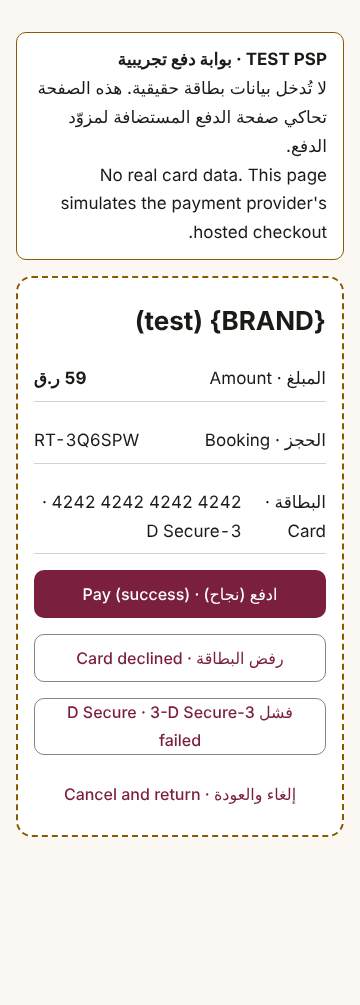
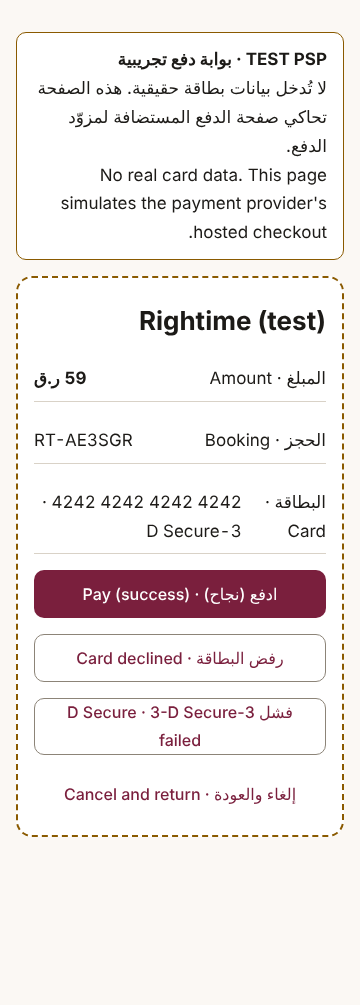
Audit remediation F6, F7, F9, F10 + brand name Rightime
F6: server keys at rest are encrypted with the SERVER_KEYS_KEK secret
(AES-256-GCM, enc:v1:); plaintext rows are encrypted in place keeping their
values; a missing or wrong KEK fails closed and never regenerates keys.
GET /api/v1/health reports key_source.

F7: the signed-in user is cached per access token for 60 s instead of being
refetched by every screen; the previous view is inert (aria-busy) while the
next one loads, so stale screens cannot take taps.

F9: Content-Security-Policy (script-src 'self', connect-src self + Supabase,
frame-ancestors 'none', ...) and Permissions-Policy on Vercel; the mock
checkout script moved out of the HTML so no inline script is needed.

F10: coordinator on duty from app_config (migration 006: +974 6005 3006, call
+ WhatsApp), GET /api/v1/support/contact, buttons on the dashboard and the
event details screen.

Brand: {BRAND} placeholder replaced with "Rightime" (UI titles and copy, admin,
mock checkout merchant, TOTP issuer).

Tests: 22/22 (new keys.test.mjs for F6, F10/health e2e, UI asserts the
coordinator buttons); runbooks A/B and pytest 42/42 pass.

Claude-Session: https://claude.ai/code/session_01FEXgDqNsHx3oP1pnWG1BkE

Changed region(s): [[0.3667, 0.3085, 0.9167, 0.3393], [0.1833, 0.4318, 0.3972, 0.4627]]

diff --git a/qatar/web/strings.js b/qatar/web/strings.js
@@ -1,7 +1,7 @@
 // UI strings (ar default, en). Arabic copy follows Qatar_Phase2_Completion_v0.3 §1 where the spec gives exact wording.
 export const STRINGS = {
   ar: {
-    brand: "{BRAND}", staging: "نسخة تجريبية", skip: "تخطَّ إلى المحتوى", langToggle: "English", back: "رجوع", next: "التالي", continue: "متابعة",
+    brand: "Rightime", staging: "نسخة تجريبية", skip: "تخطَّ إلى المحتوى", langToggle: "English", back: "رجوع", next: "التالي", continue: "متابعة",
     loading: "جارٍ التحميل…", retry: "حاول مرة أخرى", close: "إغلاق", save: "حفظ", edit: "تعديل", signOut: "تسجيل الخروج",
     // SCR-01
     ob1Title: "طاولة لستة أشخاص لا تعرفهم… بعد", ob1Body: "نجمع من 4 إلى 6 أشخاص يتحدثون لغتك وضمن ميزانيتك، على قهوة أو عشاء في مكان مختار في الدوحة.",
@@ -41,7 +41,7 @@ export const STRINGS = {
     paidTitle: "تم الدفع. نجمع طاولتك الآن.", bookingRef: "رقم الحجز", goDashboard: "الذهاب إلى لوحتي",
     // SCR-06
     hi: "أهلًا {name}", hiAnon: "أهلًا بك", nextEvent: "لقاؤك القادم", noBookings: "لا حجوزات بعد. احجز طاولتك الأولى.", bookFirst: "احجز طاولتك",
-    bookAnother: "احجز موعدًا آخر", otherBookings: "حجوزاتك الأخرى", viewDetails: "عرض التفاصيل", help: "تحتاج مساعدة؟ تواصل مع المنسق المناوب", conduct: "قواعد السلوك",
+    bookAnother: "احجز موعدًا آخر", otherBookings: "حجوزاتك الأخرى", viewDetails: "عرض التفاصيل", help: "تحتاج مساعدة؟ تواصل مع المنسق المناوب", callCoordinator: "اتصل بالمنسق", whatsappCoordinator: "واتساب المنسق", conduct: "قواعد السلوك",
     stPending: "بانتظار الدفع", stForming: "نجمع طاولتك الآن. نؤكد لك قبل {lock_at}.", stLocked: "طاولتك مكتملة ({n} أشخاص). نكشف المكان في {reveal_at}.",
     stRevealed: "المكان: {venue} · {district}", stDayOf: "هل وصلت؟", stCompleted: "كيف كانت التجربة؟", stCancelled: "أُلغي الحجز",
     stOrganizer: "ألغينا هذه الطاولة. اختر: استرداد أو موعد آخر.", chooseNow: "اختر الآن", rateIt: "قيّم اللقاء", directions: "الاتجاهات", imHere: "أنا هنا",
@@ -49,7 +49,7 @@ export const STRINGS = {
     inbox: "الإشعارات", profile: "حسابي", noNotifications: "لا إشعارات بعد.",
     // SCR-07
     detailsTitle: "تفاصيل اللقاء", essentials: "الأساسيات", yourTable: "طاولتك", confirmedCount: "{n} أشخاص مؤكدون", introTip: "نصيحة: قدّم نفسك باسمك الأول.",
-    venue: "المكان", openMaps: "فتح في الخرائط", arrival: "تعليمات الوصول", tableCode: "رمز طاولتك", mentionCode: "اذكر \"{BRAND}\" ورمز الطاولة لموظف الاستقبال.",
+    venue: "المكان", openMaps: "فتح في الخرائط", arrival: "تعليمات الوصول", tableCode: "رمز طاولتك", mentionCode: "اذكر \"Rightime\" ورمز الطاولة لموظف الاستقبال.",
     checkedIn: "تم تسجيل وصولك", support: "تواصل مع المنسق المناوب", privateReport: "إبلاغ خاص", cancelBooking: "إلغاء الحجز",
     venueHidden: "نكشف اسم المكان وعنوانه بعد تأكيد الطاولة، في {reveal_at}.", tablemates: "زملاء الطاولة اليوم", unnamed: "ضيف",
     foodBandLabel: "ميزانية الطعام", afterEvent: "بعد اللقاء", accessibility: "سهولة الوصول",
@@ -81,7 +81,7 @@ export const STRINGS = {
     errGeneric: "حدث خطأ. حاول مرة أخرى.", offline: "لا يوجد اتصال بالإنترنت.",
   },
   en: {
-    brand: "{BRAND}", staging: "Staging", skip: "Skip to content", langToggle: "العربية", back: "Back", next: "Next", continue: "Continue",
+    brand: "Rightime", staging: "Staging", skip: "Skip to content", langToggle: "العربية", back: "Back", next: "Next", continue: "Continue",
     loading: "Loading…", retry: "Try again", close: "Close", save: "Save", edit: "Edit", signOut: "Sign out",
     ob1Title: "A table of six people you don't know… yet", ob1Body: "We bring together 4 to 6 people who share your language and budget, over coffee or dinner at a chosen place in Doha.",
     ob2Title: "How it works", ob2Body: "Answer a few short questions, pick a session and pay the organising fee. We form the table and reveal the venue a day before.",
@@ -114,14 +114,14 @@ export const STRINGS = {
     slowConfirm: "This is taking longer than usual. We'll notify you when it's confirmed. You won't be charged twice.", backHome: "Back to home",
     paidTitle: "Payment confirmed. We're forming your table now.", bookingRef: "Booking ref", goDashboard: "Go to my dashboard",
     hi: "Hi {name}", hiAnon: "Welcome", nextEvent: "Your next event", noBookings: "No bookings yet. Book your first table.", bookFirst: "Book a table",
-    bookAnother: "Book another session", otherBookings: "Your other bookings", viewDetails: "View details", help: "Need help? Contact the coordinator on duty", conduct: "Code of conduct",
+    bookAnother: "Book another session", otherBookings: "Your other bookings", viewDetails: "View details", help: "Need help? Contact the coordinator on duty", callCoordinator: "Call the coordinator", whatsappCoordinator: "WhatsApp the coordinator", conduct: "Code of conduct",
     stPending: "Awaiting payment", stForming: "We're forming your table. We'll confirm by {lock_at}.", stLocked: "Your table is complete ({n} people). We'll reveal the venue at {reveal_at}.",
     stRevealed: "Venue: {venue} · {district}", stDayOf: "Have you arrived?", stCompleted: "How was it?", stCancelled: "Booking cancelled",
     stOrganizer: "We cancelled this table. Choose: refund or another session.", chooseNow: "Choose now", rateIt: "Rate the event", directions: "Directions", imHere: "I'm here",
     step1: "Paid", step2: "Forming the table", step3: "Table confirmed", step4: "Venue revealed", step5: "Event day", inDays: "in {d} d {h} h", inHours: "in {h} h {m} min",
     inbox: "Notifications", profile: "Account", noNotifications: "No notifications yet.",
     detailsTitle: "Event details", essentials: "Essentials", yourTable: "Your table", confirmedCount: "{n} people confirmed", introTip: "Tip: introduce yourself with your first name.",
-    venue: "Venue", openMaps: "Open in maps", arrival: "Arrival instructions", tableCode: "Your table code", mentionCode: "Mention \"{BRAND}\" and the table code at reception.",
+    venue: "Venue", openMaps: "Open in maps", arrival: "Arrival instructions", tableCode: "Your table code", mentionCode: "Mention \"Rightime\" and the table code at reception.",
     checkedIn: "You're checked in", support: "Contact the coordinator on duty", privateReport: "Private report", cancelBooking: "Cancel booking",
     venueHidden: "We reveal the venue name and address after the table is confirmed, at {reveal_at}.", tablemates: "Your tablemates today", unnamed: "Guest",
     foodBandLabel: "Food budget", afterEvent: "After the event", accessibility: "Accessibility",

diff --git a/qatar/web/app.js b/qatar/web/app.js
@@ -1,4 +1,4 @@
-// {BRAND} user web app — SCR-01 … SCR-10 (v0.3 §1). Vanilla ES modules, hash router, RTL-first.
+// Rightime user web app — SCR-01 … SCR-10 (v0.3 §1). Vanilla ES modules, hash router, RTL-first.
 import { STRINGS } from "./strings.js";
 
 const CFG = Object.assign({ apiBase: "", staging: true }, window.QATAR_CONFIG || {});
@@ -39,6 +39,8 @@ function toast(msg) {
 }
 
 function view(title, html) {
+  main.inert = false;
+  main.removeAttribute("aria-busy");
   main.innerHTML = html;
   document.title = `${title} · ${T("brand")}`;
   const h = main.querySelector("h1");
@@ -106,10 +108,16 @@ function setLocale(l) {
   route();
 }
 
-async function loadMe() {
+// The signed-in user is cached per access token for 60 s (audit F7): every screen's guard used to refetch it.
+// The server still enforces status and registration on every call, so a short cache cannot widen access.
+async function loadMe(force = false) {
+  const tok = (store.get("tokens") || {}).access_token;
+  if (!force && state.me && state.meToken === tok && Date.now() - state.meAt < 60000) return state.me;
   const r = await api("GET", "/api/v1/users/me");
   if (!r.ok) return null;
   state.me = r.data.user;
+  state.meToken = (store.get("tokens") || {}).access_token;
+  state.meAt = Date.now();
   return state.me;
 }
 
@@ -487,6 +495,19 @@ async function scrReview(id) {
   $("#change").onclick = async () => { await api("POST", `/api/v1/bookings/${id}/cancel`, {}); go("#/sessions"); };
 }
 
+// Coordinator on duty (audit F10): real call / WhatsApp buttons when configured, loaded once per page load.
+async function loadContact() {
+  if (state.contact !== undefined) return state.contact;
+  const r = await api("GET", "/api/v1/support/contact", undefined, { noAuth: true });
+  state.contact = r.ok ? r.data.coordinator : null;
+  return state.contact;
+}
+function contactButtons(c) {
+  if (!c) return "";
+  return `<div class="row contact-actions"><a class="btn btn-secondary" id="call-coord" href="${esc(c.tel_url)}"><span aria-hidden="true">📞</span> ${esc(T("callCoordinator"))} <bdi dir="ltr">${esc(c.phone_display)}</bdi></a>
+    ${c.whatsapp_url ? `<a class="btn btn-secondary" id="wa-coord" href="${esc(c.whatsapp_url)}" target="_blank" rel="noopener noreferrer">${esc(T("whatsappCoordinator"))}</a>` : ""}</div>`;
+}
+
 // Cancellation terms before paying (audit F1): never promise a refund deadline that has already passed.
 function policyHtml(c, fee) {
   if (c.full_refund_window_open !== false) {
@@ -549,7 +570,7 @@ function countdown(iso) {
 async function scrHome() {
   if (!(await guard())) return;
   loadingView();
-  const r = await api("GET", "/api/v1/bookings");
+  const [r, contact] = await Promise.all([api("GET", "/api/v1/bookings"), loadContact()]);
   const bookings = r.ok ? r.data.bookings : [];
   const upcoming = bookings.filter((b) => ACTIVE.includes(b.status)).sort((a, b) => new Date(a.starts_at) - new Date(b.starts_at));
   const choice = bookings.find((b) => b.status === "cancelled_by_organizer" && new Date(b.starts_at) > new Date(Date.now() - 2 * 86400000));
@@ -581,14 +602,14 @@ async function scrHome() {
       <li><a class="card card-link" href="#/booking/${b.id}"><div class="row between"><span>${esc(T(b.experience))} · ${esc(fmtDate(b.starts_at, { day: "numeric", month: "short", hour: "numeric", minute: "2-digit" }))}</span>${statusBadge(b)}</div>
       <span class="caption">${num(b.ref)} · ${esc(b.district)}</span></a></li>`).join("")}</ul>` : ""}
     ${next ? `<a class="btn btn-secondary btn-block" href="#/sessions">${esc(T("bookAnother"))}</a>` : ""}
-    <section class="card sunken"><p class="caption">${esc(T("help"))}</p></section>`);
+    <section class="card sunken stack"><p class="caption">${esc(T("help"))}</p>${contactButtons(contact)}</section>`);
 }
 
 // ------------------------------------------------------------------ SCR-07 event details
 async function scrDetails(id) {
   if (!(await guard({ needQuestionnaire: false }))) return;
   loadingView();
-  const r = await api("GET", `/api/v1/bookings/${id}/event-details`);
+  const [r, contact] = await Promise.all([api("GET", `/api/v1/bookings/${id}/event-details`), loadContact()]);
   if (!r.ok) { view(T("detailsTitle"), `<h1>${esc(T("detailsTitle"))}</h1>${errorBanner(r.data)}`); return; }
   const e = r.data, ph = e.reveal.phase, act = (t) => e.actions.find((a) => a.type === t);
   if (ph === "pending_payment") { go(`#/booking/${id}/review`); return; }
@@ -618,7 +639,7 @@ async function scrDetails(id) {
     ${act("feedback") ? `<a class="btn btn-primary btn-block" href="#/booking/${id}/feedback">${esc(T("rateIt"))}</a>` : ""}
     ${e.refund ? `<section class="card"><div class="kv"><span>${esc(T("refundLabel"))}</span><strong>${esc(T({ requested: "rfRequested", processing: "rfProcessing", refunded: "rfRefunded", failed: "rfFailed", none: "rfNone" }[e.refund.status]))}${e.refund.amount ? ` · ${esc(e.refund.amount.display)}` : ""}</strong></div></section>` : ""}
     ${e.rebooked_into ? `<div class="banner banner-success"><div>${esc(T("rebookedInto", { ref: e.rebooked_into.ref }))} <a href="#/booking/${e.rebooked_into.booking_id}">${esc(T("viewDetails"))}</a></div></div>` : ""}
-    <section class="card sunken stack"><p class="caption">${esc(T("support"))}</p>
+    <section class="card sunken stack"><p class="caption">${esc(T("support"))}</p>${contactButtons(contact)}
       ${act("report") || ["revealed", "locked", "forming"].includes(ph) ? `<a class="btn btn-secondary" href="#/report/${id}">${esc(T("privateReport"))}</a>` : ""}</section>
     ${act("cancel") ? `<a class="btn btn-danger btn-block" href="#/booking/${id}/cancel">${esc(T("cancelBooking"))}</a>
       <p class="caption">${esc(e.booking.cancellation.refund_if_cancelled_now === "full" ? T("policyBox", { deadline: fmtDate(e.booking.cancellation.full_refund_until) })
@@ -847,6 +868,9 @@ const ROUTES = [
 async function route() {
   clearTimers();
   const hash = location.hash || (store.get("tokens") ? "#/home" : "#/welcome");
+  // the old screen must not take taps while the next one loads (audit F7/F16); view() re-enables it
+  main.inert = true;
+  main.setAttribute("aria-busy", "true");
   for (const [re, fn] of ROUTES) {
     const m = re.exec(hash);
     if (m) {

diff --git a/qatar/api/src/lib/keys.js b/qatar/api/src/lib/keys.js
@@ -1,7 +1,9 @@
-// Server keys. Production: set JWT_PRIVATE_PEM, DATA_KEY (64 hex), PHONE_PEPPER, PSP_WEBHOOK_SECRET as secrets.
-// Staging fallback: if a secret is not set, a key is generated once and stored in app.server_keys
-// (readable only by the database owner role). The response header X-Key-Source tells which mode is active.
-import { Buffer, generateRsaPem, keyPairFromPem, randomToken } from "./crypto.js";
+// Server keys: JWT_PRIVATE_PEM, DATA_KEY (64 hex), PHONE_PEPPER, PSP_WEBHOOK_SECRET, SEAT_TOKEN_KEY.
+// Each one is taken from an environment variable / Edge Function secret of the same name when set. Otherwise it
+// lives in app.server_keys (generated once). With the SERVER_KEYS_KEK secret set (audit F6), those rows are stored
+// encrypted (AES-256-GCM, key derived from the KEK), plaintext rows are encrypted in place on first use, and a
+// missing or wrong KEK fails closed: keys are never regenerated over existing data.
+import { Buffer, createHash, decrypt, encrypt, generateRsaPem, keyPairFromPem, randomToken } from "./crypto.js";
 
 const SPECS = {
   JWT_PRIVATE_PEM: () => generateRsaPem(),
@@ -10,28 +12,52 @@ const SPECS = {
   PSP_WEBHOOK_SECRET: () => randomToken(32),
   SEAT_TOKEN_KEY: () => randomToken(32),
 };
+const ENC_PREFIX = "enc:v1:";
 
 let cached = null;
 
+export function kekFrom(secret) {
+  if (!secret) return null;
+  if (secret.length < 32) throw new Error("SERVER_KEYS_KEK must be at least 32 characters");
+  return createHash("sha256").update("rightime/server-keys/v1\n" + secret).digest();
+}
+
+const seal = (kek, value) => ENC_PREFIX + encrypt(kek, value).toString("base64");
+
+function open(kek, name, stored) {
+  if (!stored.startsWith(ENC_PREFIX)) return stored;
+  if (!kek) throw new Error(`server key ${name} is encrypted but SERVER_KEYS_KEK is not set`);
+  try { return decrypt(kek, Buffer.from(stored.slice(ENC_PREFIX.length), "base64")); }
+  catch { throw new Error(`server key ${name} cannot be decrypted: SERVER_KEYS_KEK is wrong`); }
+}
+
 export async function loadKeys(sql, getEnv) {
   if (cached) return cached;
+  const kek = kekFrom(getEnv("SERVER_KEYS_KEK"));
   const values = {};
   const sources = {};
   for (const [name, gen] of Object.entries(SPECS)) {
     const fromEnv = getEnv(name);
     if (fromEnv) { values[name] = fromEnv.replace(/\\n/g, "\n"); sources[name] = "env"; continue; }
-    await sql`INSERT INTO app.server_keys (name, value) VALUES (${name}, ${gen()}) ON CONFLICT (name) DO NOTHING`;
+    const fresh = gen();
+    await sql`INSERT INTO app.server_keys (name, value) VALUES (${name}, ${kek ? seal(kek, fresh) : fresh}) ON CONFLICT (name) DO NOTHING`;
     const [row] = await sql`SELECT value FROM app.server_keys WHERE name = ${name}`;
-    values[name] = row.value; sources[name] = "db";
+    values[name] = open(kek, name, row.value);
+    if (kek && !row.value.startsWith(ENC_PREFIX)) {
+      // one-time migration of a plaintext row; only replaces the exact value that was read
+      await sql`UPDATE app.server_keys SET value = ${seal(kek, values[name])} WHERE name = ${name} AND value = ${row.value}`;
+    }
+    sources[name] = kek ? "db-encrypted" : "db";
   }
   const kp = keyPairFromPem(values.JWT_PRIVATE_PEM);
+  const kinds = new Set(Object.values(sources));
   cached = {
     jwt: { ...kp, kid: "k1" },
     dataKey: Buffer.from(values.DATA_KEY, "hex"),
     phonePepper: values.PHONE_PEPPER,
     pspWebhookSecret: values.PSP_WEBHOOK_SECRET,
     seatTokenKey: values.SEAT_TOKEN_KEY,
-    source: Object.values(sources).every((s) => s === "env") ? "env" : "db-fallback",
+    source: kinds.size === 1 ? [...kinds][0] === "db" ? "db-fallback" : [...kinds][0] : "mixed",
   };
   if (cached.dataKey.length !== 32) throw new Error("DATA_KEY must be 32 bytes (64 hex chars)");
   return cached;

diff --git a/qatar/web/checkout-mock.html b/qatar/web/checkout-mock.html
@@ -17,38 +17,6 @@
       No real card data. This page simulates the payment provider's hosted checkout.</div></div>
     <section class="card psp stack" id="box" aria-busy="true"><div class="spinner" aria-hidden="true"></div></section>
   </main>
-  <script type="module">
-    const CFG = Object.assign({ apiBase: "" }, window.QATAR_CONFIG || {});
-    const apiUrl = (path) => CFG.apiBase + path + (CFG.apiRegion ? `${path.includes("?") ? "&" : "?"}forceFunctionRegion=${CFG.apiRegion}` : "");
-    const pi = new URLSearchParams(location.search).get("pi");
-    const box = document.getElementById("box");
-    const esc = (s) => String(s ?? "").replace(/[&<>"']/g, (c) => ({ "&": "&amp;", "<": "&lt;", ">": "&gt;", '"': "&quot;", "'": "&#39;" }[c]));
-    async function load() {
-      const r = await fetch(apiUrl(`/api/mock-psp/checkout/${encodeURIComponent(pi)}`));
-      const d = await r.json();
-      if (!r.ok) { box.innerHTML = `<h1>Error</h1><p>${esc(d.message)}</p>`; return; }
-      box.removeAttribute("aria-busy");
-      box.innerHTML = `
-        <h1>${esc(d.merchant)}</h1>
-        <div class="kv"><span>المبلغ · Amount</span><strong class="num">${esc(d.amount.display)}</strong></div>
-        <div class="kv"><span>الحجز · Booking</span><span class="num">${esc(d.booking_ref)}</span></div>
-        <div class="kv"><span>البطاقة · Card</span><span class="num">4242 4242 4242 4242 · 3-D Secure</span></div>
-        <div class="stack">
-          <button class="btn btn-primary btn-block" data-o="success">ادفع (نجاح) · Pay (success)</button>
-          <button class="btn btn-secondary btn-block" data-o="declined">رفض البطاقة · Card declined</button>
-          <button class="btn btn-secondary btn-block" data-o="3ds_failed">فشل 3-D Secure · 3-D Secure failed</button>
-          <button class="btn btn-ghost btn-block" data-o="cancel">إلغاء والعودة · Cancel and return</button>
-        </div>`;
-      box.querySelectorAll("[data-o]").forEach((b) => (b.onclick = () => pay(b.dataset.o, d.return_url)));
-    }
-    async function pay(outcome, fallback) {
-      box.setAttribute("aria-busy", "true");
-      box.querySelectorAll("button").forEach((b) => (b.disabled = true));
-      const r = await fetch(apiUrl(`/api/mock-psp/checkout/${encodeURIComponent(pi)}`), { method: "POST", headers: { "Content-Type": "application/json" }, body: JSON.stringify({ outcome }) });
-      const d = await r.json().catch(() => ({}));
-      location.assign(d.return_url || fallback);
-    }
-    load();
-  </script>
+  <script type="module" src="/checkout-mock.js"></script>
 </body>
 </html>

diff --git a/qatar/web/checkout-mock.js b/qatar/web/checkout-mock.js
@@ -1,0 +1,32 @@
+// Mock hosted checkout (test_psp, staging only). Kept out of the HTML so the CSP can forbid inline scripts (audit F9).
+const CFG = Object.assign({ apiBase: "" }, window.QATAR_CONFIG || {});
+const apiUrl = (path) => CFG.apiBase + path + (CFG.apiRegion ? `${path.includes("?") ? "&" : "?"}forceFunctionRegion=${CFG.apiRegion}` : "");
+const pi = new URLSearchParams(location.search).get("pi");
+const box = document.getElementById("box");
+const esc = (s) => String(s ?? "").replace(/[&<>"']/g, (c) => ({ "&": "&amp;", "<": "&lt;", ">": "&gt;", '"': "&quot;", "'": "&#39;" }[c]));
+async function load() {
+  const r = await fetch(apiUrl(`/api/mock-psp/checkout/${encodeURIComponent(pi)}`));
+  const d = await r.json();
+  if (!r.ok) { box.innerHTML = `<h1>Error</h1><p>${esc(d.message)}</p>`; return; }
+  box.removeAttribute("aria-busy");
+  box.innerHTML = `
+    <h1>${esc(d.merchant)}</h1>
+    <div class="kv"><span>المبلغ · Amount</span><strong class="num">${esc(d.amount.display)}</strong></div>
+    <div class="kv"><span>الحجز · Booking</span><span class="num">${esc(d.booking_ref)}</span></div>
+    <div class="kv"><span>البطاقة · Card</span><span class="num">4242 4242 4242 4242 · 3-D Secure</span></div>
+    <div class="stack">
+      <button class="btn btn-primary btn-block" data-o="success">ادفع (نجاح) · Pay (success)</button>
+      <button class="btn btn-secondary btn-block" data-o="declined">رفض البطاقة · Card declined</button>
+      <button class="btn btn-secondary btn-block" data-o="3ds_failed">فشل 3-D Secure · 3-D Secure failed</button>
+      <button class="btn btn-ghost btn-block" data-o="cancel">إلغاء والعودة · Cancel and return</button>
+    </div>`;
+  box.querySelectorAll("[data-o]").forEach((b) => (b.onclick = () => pay(b.dataset.o, d.return_url)));
+}
+async function pay(outcome, fallback) {
+  box.setAttribute("aria-busy", "true");
+  box.querySelectorAll("button").forEach((b) => (b.disabled = true));
+  const r = await fetch(apiUrl(`/api/mock-psp/checkout/${encodeURIComponent(pi)}`), { method: "POST", headers: { "Content-Type": "application/json" }, body: JSON.stringify({ outcome }) });
+  const d = await r.json().catch(() => ({}));
+  location.assign(d.return_url || fallback);
+}
+load();

diff --git a/qatar/api/src/routes/user.js b/qatar/api/src/routes/user.js
@@ -772,12 +772,26 @@ async function notifications(ctx) {
     booking_id: (n.payload || {}).booking_id || null, text: renderTemplate(n.template_key, ctx.locale, fmt(n.payload)) })) });
 }
 
+// Health probe: confirms the API, database and server keys load; reports where the keys come from (audit F6).
+const health = async (ctx) => json(200, { status: "ok", key_source: ctx.keys.source });
+
+// Coordinator on duty (audit F10): a real channel the app can show as call / WhatsApp buttons. Empty when not configured.
+function supportContact(ctx) {
+  const phone = ctx.cfg.coordinatorPhone;
+  if (!/^\+[1-9][0-9]{6,14}$/.test(phone)) return json(200, { coordinator: null });
+  const local = phone.startsWith("+974") ? `+974 ${phone.slice(4, 8)} ${phone.slice(8)}` : phone;
+  return json(200, { coordinator: { phone_e164: phone, phone_display: local, tel_url: `tel:${phone}`,
+    whatsapp_url: ctx.cfg.coordinatorWhatsapp ? `https://wa.me/${phone.slice(1)}` : null } }, { "Cache-Control": "public, max-age=300" });
+}
+
 export const userRoutes = [
   { method: "POST", path: "/api/v1/auth/otp:request", auth: "none", idem: true, handler: otpRequest },
   { method: "POST", path: "/api/v1/auth/otp:verify", auth: "none", handler: otpVerify },
   { method: "POST", path: "/api/v1/auth/token:refresh", auth: "none", handler: (ctx) => refreshTokens(ctx, "user") },
   { method: "POST", path: "/api/v1/auth/logout", auth: "user_any", handler: logout },
   { method: "GET", path: "/api/v1/legal/current", auth: "none", handler: legalCurrent },
+  { method: "GET", path: "/api/v1/health", auth: "none", handler: health },
+  { method: "GET", path: "/api/v1/support/contact", auth: "none", handler: supportContact },
   { method: "POST", path: "/api/v1/users/me/registration", auth: "user_any", idem: true, handler: register },
   { method: "GET", path: "/api/v1/users/me", auth: "user_any", handler: me },
   { method: "DELETE", path: "/api/v1/users/me", auth: "user_any", handler: deleteMe },

diff --git a/qatar/web/admin/admin.js b/qatar/web/admin/admin.js
@@ -1,4 +1,4 @@
-// {BRAND} admin panel (v0.3 §4): role-based navigation, maker-checker, P4 reason prompt. English UI for the ops team.
+// Rightime admin panel (v0.3 §4): role-based navigation, maker-checker, P4 reason prompt. English UI for the ops team.
 const CFG = Object.assign({ apiBase: "" }, window.QATAR_CONFIG || {});
 // Supabase runs the function next to the database when apiRegion is set (forceFunctionRegion: no extra CORS header needed).
 const apiUrl = (path) => CFG.apiBase + path + (CFG.apiRegion ? `${path.includes("?") ? "&" : "?"}forceFunctionRegion=${CFG.apiRegion}` : "");
@@ -35,7 +35,7 @@ async function api(method, path, body) {
 
 function view(title, html) {
   main.innerHTML = html;
-  document.title = `${title} · {BRAND} Admin`;
+  document.title = `${title} · Rightime Admin`;
   const h = main.querySelector("h1");
   if (h) { h.tabIndex = -1; h.focus(); }
 }
@@ -56,10 +56,10 @@ const NAV = [
 
 function renderNav() {
   const a = ss.get("admin");
-  nav.innerHTML = a ? `<span class="brand"><span class="brand-mark" aria-hidden="true">ط</span>{BRAND} Admin</span>
+  nav.innerHTML = a ? `<span class="brand"><span class="brand-mark" aria-hidden="true">ط</span>Rightime Admin</span>
     <ul>${NAV.filter(([, , roles]) => roles.includes(a.role)).map(([h, l]) => `<li><a href="${h}" ${location.hash.startsWith(h) ? 'aria-current="page"' : ""}>${esc(l)}</a></li>`).join("")}</ul>
     <span class="spacer"></span><span class="caption">${esc(a.name)} · <strong>${esc(a.role)}</strong></span><button class="btn btn-ghost" id="logout">Sign out</button>`
-    : `<span class="brand"><span class="brand-mark" aria-hidden="true">ط</span>{BRAND} Admin</span>`;
+    : `<span class="brand"><span class="brand-mark" aria-hidden="true">ط</span>Rightime Admin</span>`;
   const lo = document.getElementById("logout");
   if (lo) lo.onclick = () => { ss.del("token"); ss.del("admin"); renderNav(); go("#/login"); };
 }

diff --git a/qatar/api/src/routes/payments.js b/qatar/api/src/routes/payments.js
@@ -41,7 +41,7 @@ async function mockIntent(ctx) {
      WHERE p.psp_payment_intent_id = ${params.pi}`;
   if (!p) fail(404, "NOT_FOUND");
   return { p, out: { payment_intent: p.psp_payment_intent_id, booking_id: p.booking_id, booking_ref: p.booking_ref, status: p.status,
-    amount: money(p.amount_minor, locale), hold_expires_at: p.hold_expires_at, merchant: "{BRAND} (test)",
+    amount: money(p.amount_minor, locale), hold_expires_at: p.hold_expires_at, merchant: "Rightime (test)",
     return_url: `${cfg.webBaseUrl}/#/pay/return/${p.booking_id}` } };
 }
 

diff --git a/qatar/web/index.html b/qatar/web/index.html
@@ -4,7 +4,7 @@
   <meta charset="utf-8">
   <meta name="viewport" content="width=device-width, initial-scale=1, viewport-fit=cover">
   <meta name="theme-color" content="#7A1F3D">
-  <title>{BRAND}</title>
+  <title>Rightime</title>
   <link rel="preconnect" href="https://fonts.googleapis.com">
   <link rel="preconnect" href="https://fonts.gstatic.com" crossorigin>
   <link rel="stylesheet" href="https://fonts.googleapis.com/css2?family=IBM+Plex+Sans+Arabic:wght@400;500;600;700&family=IBM+Plex+Sans:wght@400;500;600;700&display=swap">

diff --git a/qatar/api/src/lib/config.js b/qatar/api/src/lib/config.js
@@ -23,6 +23,8 @@ export async function loadConfig(sql, getEnv) {
     adminMaxFailsPerEmail: Number(get("ADMIN_LOGIN_MAX_FAILS_PER_EMAIL", "5")),
     adminMaxFailsPerIp: Number(get("ADMIN_LOGIN_MAX_FAILS_PER_IP", "20")),
     adminLoginWindowMinutes: Number(get("ADMIN_LOGIN_WINDOW_MINUTES", "15")),
+    coordinatorPhone: get("COORDINATOR_PHONE_E164", "").trim(),
+    coordinatorWhatsapp: get("COORDINATOR_WHATSAPP", "false") === "true",
     otpTtl: 300, otpResendAfter: 45, otpMaxAttempts: 5,
   };
   loadedAt = Date.now();

diff --git a/qatar/web/admin/index.html b/qatar/web/admin/index.html
@@ -4,7 +4,7 @@
   <meta charset="utf-8">
   <meta name="viewport" content="width=device-width, initial-scale=1">
   <meta name="robots" content="noindex">
-  <title>{BRAND} Admin</title>
+  <title>Rightime Admin</title>
   <link rel="preconnect" href="https://fonts.googleapis.com">
   <link rel="preconnect" href="https://fonts.gstatic.com" crossorigin>
   <link rel="stylesheet" href="https://fonts.googleapis.com/css2?family=IBM+Plex+Sans+Arabic:wght@400;600&family=IBM+Plex+Sans:wght@400;500;600;700&display=swap">

diff --git a/qatar/web/styles.css b/qatar/web/styles.css
@@ -174,3 +174,8 @@ legend { padding: 0; font-weight: var(--t-h2-weight); font-size: var(--t-h2-size
   .brand > span:last-child { display: none; }
   .env-badge { font-size: 12px; }
 }
+
+/* app busy between screens (audit F7): the previous view is inert until the next one renders */
+main[aria-busy="true"] { opacity: 0.6; cursor: progress; transition: opacity 0.15s ease-in; }
+@media (prefers-reduced-motion: reduce) { main[aria-busy="true"] { transition: none; } }
+.contact-actions .btn { flex: 1 1 auto; }
